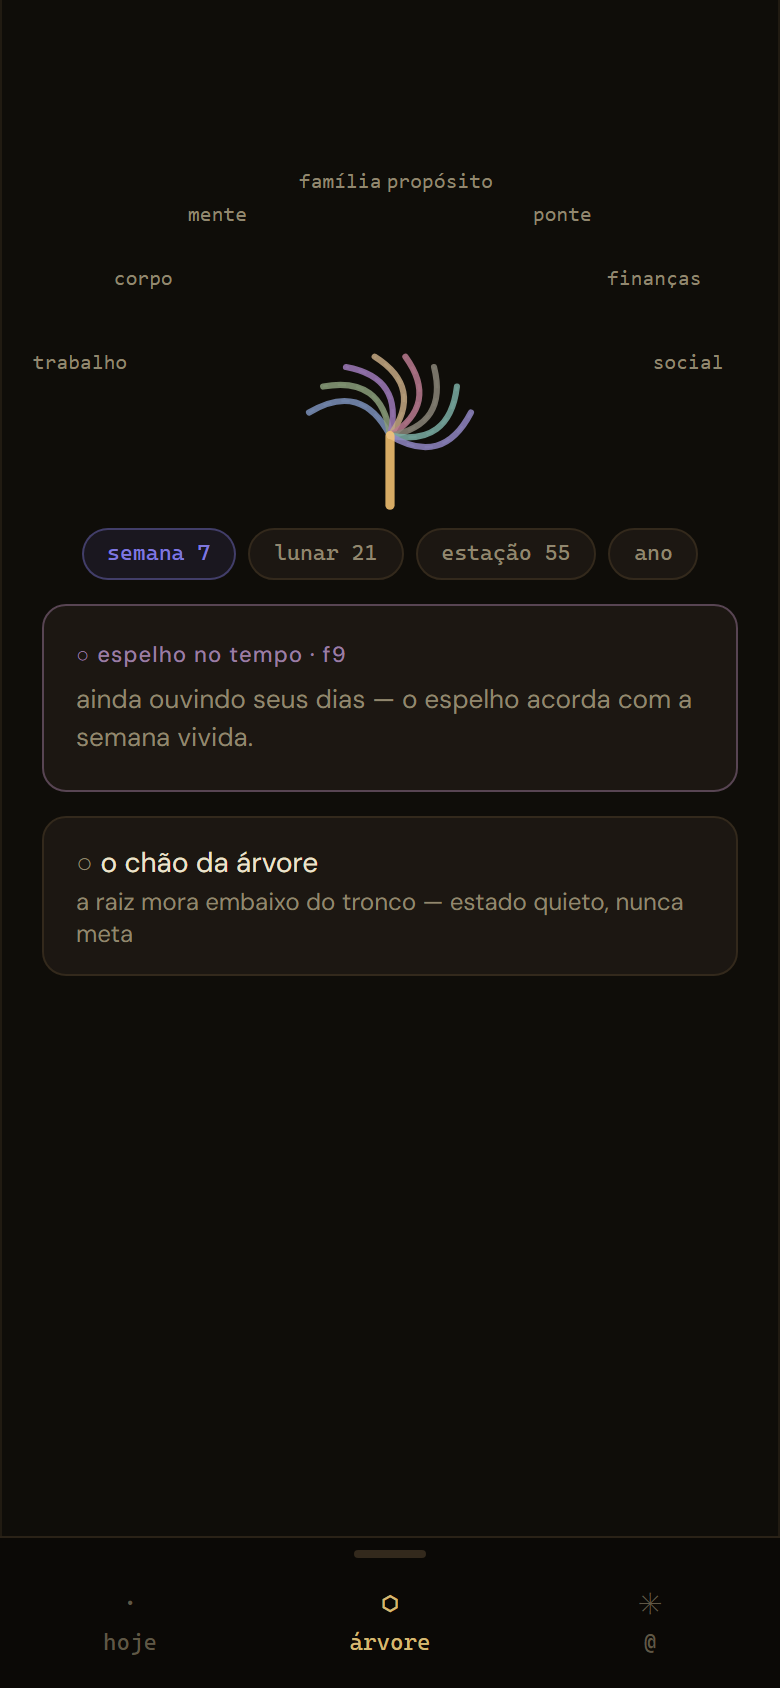
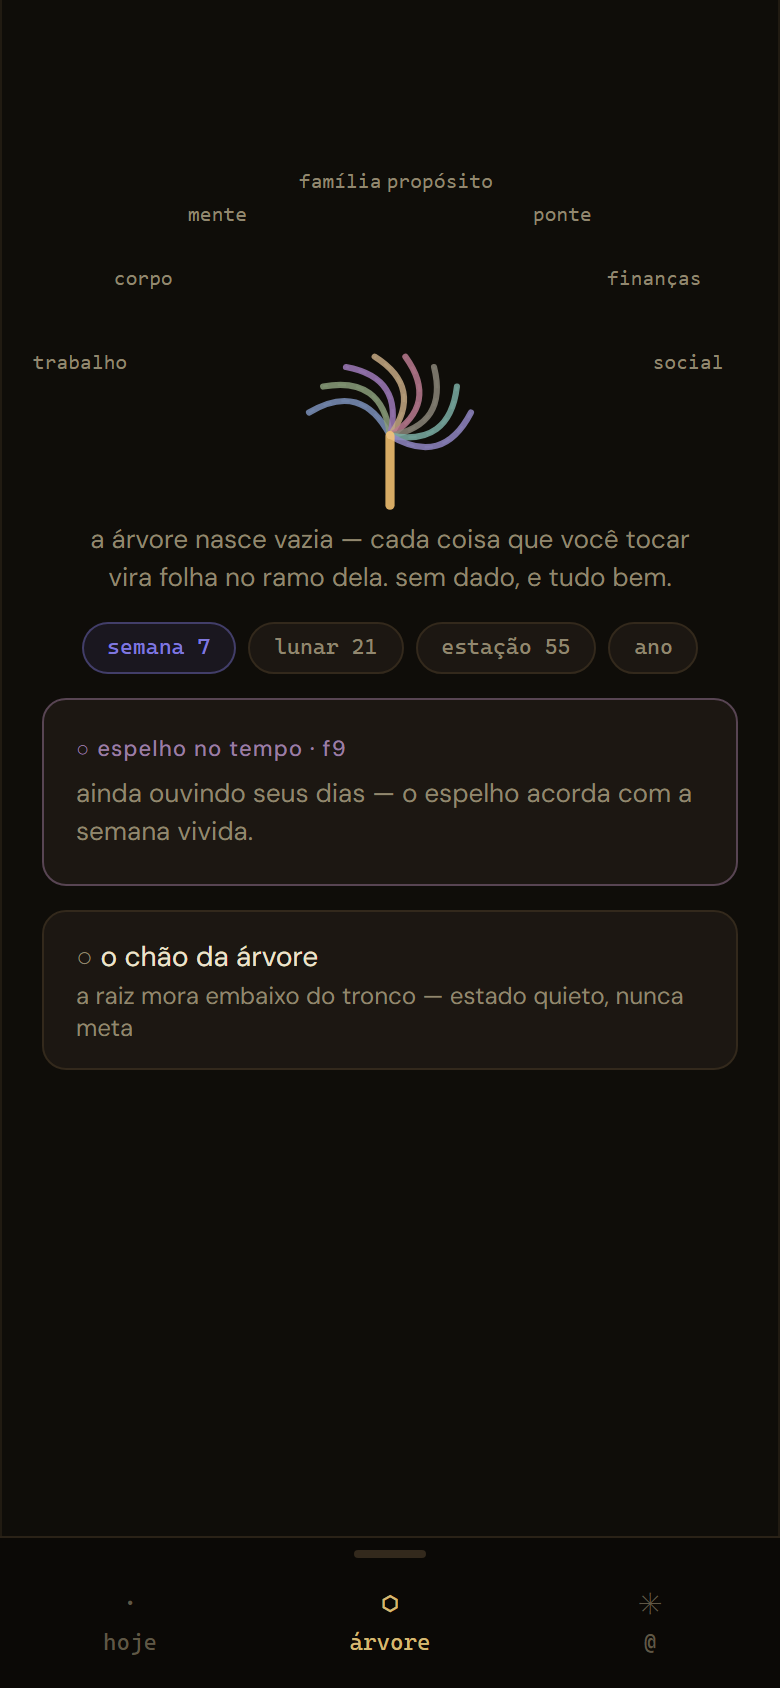
feat(arvore): cold start declarado e confianca por ramo (obra 24b)
«Sem dado, e tudo bem» agora e distinguivel de «caiu»: a arvore vazia
diz por que esta vazia, e o drill declara quando o ideal do ramo se
apoia em pouca folha (rala) ou nenhuma (sem-dado). O degrau e do dado,
nunca do humano — nenhuma confianca julga (D46). Motor puro com 6
testes novos; foto 37 refotografada com intencao (a linha de chao e a
mudanca). Table stake do benchmark 16 (Whoop declara o cinza).

diff --git a/src/engine/tree.ts b/src/engine/tree.ts
@@ -42,9 +42,28 @@ export interface Branch {
   ideal: number;  // 0..1 — presença no baseline, mesma régua
   leaves: Leaf[]; // folhas recentes (mais nova primeiro; teto de 8 pro drill)
   total: number;  // quantas folhas a janela tem de verdade (sem teto — o drill não mente)
+  baseTotal: number;  // folhas na janela do baseline — o chão em que o "ideal" se apoia
+  confidence: BranchConfidence; // quanta folha sustenta a leitura deste ramo
   saturated: boolean; // real folgado acima do baseline → anel (cheio)
   thirsty: boolean;   // real bem abaixo do baseline → pedindo água
 }
+
+/**
+ * Confiança por ramo (benchmark 16, table stake): «sem dado, e tudo bem»
+ * tem que ser distinguível de «caiu» — e de leitura apoiada em quase nada.
+ * O degrau é do dado, não do humano: nenhuma confiança julga (D46).
+ */
+export type BranchConfidence = 'firme' | 'rala' | 'sem-dado';
+
+// menos folha que isto no baseline = o "ideal" ainda é chute educado
+export const CONFIDENCE_FLOOR = 3;
+
+/** O que a face diz de cada degrau — null quando não há nada a dizer. */
+export const CONFIDENCE_LABEL: Record<BranchConfidence, string | null> = {
+  firme: null,
+  rala: 'leitura rala — o ideal deste ramo se apoia em pouca folha ainda',
+  'sem-dado': 'sem folha ainda — e tudo bem: o ramo cresce quando a vida tocar nele',
+};
 
 const LIVE = (i: AtomItem) => i.state !== 'archived' && i.status !== 'archived';
 
@@ -89,16 +108,32 @@ export function treeShape(items: AtomItem[], windowKey: TreeWindow['key'], now: 
       .filter((i) => i.module === m && LIVE(i) && touchOf(i) >= since)
       .sort((a, b) => touchOf(b).localeCompare(touchOf(a)));
     const leaves = inWindow.slice(0, 8).map((item) => ({ item, when: touchOf(item) }));
+    const baseTotal = idealRaw[m];
+    const confidence: BranchConfidence =
+      baseTotal === 0 && inWindow.length === 0 ? 'sem-dado'
+      : baseTotal < CONFIDENCE_FLOOR ? 'rala'
+      : 'firme';
     return {
       module: m,
       real,
       ideal,
       leaves,
       total: inWindow.length,
+      baseTotal,
+      confidence,
       saturated: real > ideal + DELTA,
       thirsty: ideal > 0 && real < ideal - DELTA,
     };
   });
+}
+
+/**
+ * A árvore inteira ainda não viveu? Cold start é ESTADO declarado, nunca
+ * silêncio mudo: 8 tocos idênticos sem uma palavra são indistinguíveis de
+ * «caiu» (benchmark 16: Whoop declara o cinza; quem esconde, assusta).
+ */
+export function isColdStart(branches: Branch[]): boolean {
+  return branches.every((b) => b.total === 0 && b.baseTotal === 0);
 }
 
 // nomes de casa pros ramos (a árvore fala pt)

diff --git a/src/engine/tree.test.ts b/src/engine/tree.test.ts
@@ -1,6 +1,6 @@
 // engine/tree.test.ts — a árvore da vida (face ÁRVORE)
 import { describe, it, expect } from 'vitest';
-import { treeShape, synthesis, presence, TREE_WINDOWS } from './tree';
+import { treeShape, synthesis, presence, isColdStart, CONFIDENCE_FLOOR, TREE_WINDOWS } from './tree';
 import type { AtomItem, AtomModule } from '@/types/item';
 
 const NOW = new Date('2026-07-27T12:00:00Z');
@@ -119,5 +119,44 @@ describe('synthesis — estado, nunca julgamento', () => {
 describe('TREE_WINDOWS', () => {
   it('as 4 janelas φ: 7 · 21 · 55 · 365', () => {
     expect(TREE_WINDOWS.map((w) => w.days)).toEqual([7, 21, 55, 365]);
+  });
+});
+
+describe('cold start e confiança por ramo (benchmark 16)', () => {
+  it('árvore que nunca viveu declara cold start', () => {
+    expect(isColdStart(treeShape([], 'semana', NOW))).toBe(true);
+  });
+
+  it('uma folha só já tira a árvore do cold start', () => {
+    const shape = treeShape([item('work', 2)], 'semana', NOW);
+    expect(isColdStart(shape)).toBe(false);
+  });
+
+  it('ramo sem folha em janela nenhuma → sem-dado', () => {
+    const shape = treeShape([item('work', 2)], 'semana', NOW);
+    expect(shape.find((b) => b.module === 'family')?.confidence).toBe('sem-dado');
+  });
+
+  it('baseline com pouca folha → leitura rala', () => {
+    // 2 toques na estação (< CONFIDENCE_FLOOR): o ideal se apoia em quase nada
+    const shape = treeShape([item('mind', 30), item('mind', 40)], 'semana', NOW);
+    expect(CONFIDENCE_FLOOR).toBeGreaterThan(2);
+    expect(shape.find((b) => b.module === 'mind')?.confidence).toBe('rala');
+  });
+
+  it('baseline no piso ou acima → leitura firme', () => {
+    const shape = treeShape(
+      [item('body', 5), item('body', 20), item('body', 44)],
+      'semana',
+      NOW,
+    );
+    expect(shape.find((b) => b.module === 'body')?.confidence).toBe('firme');
+  });
+
+  it('a confiança é do dado, nunca julga: sem-dado não vira sede nem cheio', () => {
+    const shape = treeShape([item('work', 2)], 'semana', NOW);
+    const family = shape.find((b) => b.module === 'family')!;
+    expect(family.thirsty).toBe(false);
+    expect(family.saturated).toBe(false);
   });
 });

diff --git a/src/pages/Arvore.tsx b/src/pages/Arvore.tsx
@@ -11,7 +11,7 @@ import { useItems } from '@/hooks/useItems';
 import { useNav } from '@/hooks/useNav';
 import { useAppStore } from '@/store/app-store';
 import { eventService } from '@/service/item-service';
-import { treeShape, synthesis, TREE_WINDOWS, BRANCH_LABEL, type Branch, type TreeWindow } from '@/engine/tree';
+import { treeShape, synthesis, isColdStart, CONFIDENCE_LABEL, TREE_WINDOWS, BRANCH_LABEL, type Branch, type TreeWindow } from '@/engine/tree';
 import { mirror } from '@/engine/mirror';
 import { simEvents } from '@/dev/sim-week';
 import type { AtomItem, AtomModule } from '@/types/item';
@@ -134,6 +134,15 @@ export function ArvorePage() {
       {/* a síntese — estado, nunca julgamento; quieta se a árvore está quieta */}
       {line && <p className="text-center text-sm italic text-text-muted -mt-1 mb-3 text-balance">{line}</p>}
 
+      {/* cold start declarado (benchmark 16): «sem dado, e tudo bem» nunca
+          pode parecer «caiu» — a árvore vazia diz por que está vazia */}
+      {isColdStart(branches) && (
+        <p className="text-center text-[13px] italic text-text-muted -mt-1 mb-3 text-balance px-4">
+          a árvore nasce vazia — cada coisa que você tocar vira folha no ramo
+          dela. sem dado, e tudo bem.
+        </p>
+      )}
+
       {/* janelas φ */}
       <div className="flex gap-1.5 justify-center flex-wrap mb-3">
         {TREE_WINDOWS.map((w) => (
@@ -157,6 +166,10 @@ export function ArvorePage() {
           <h4 className="text-[11px] font-semibold tracking-wider text-text-muted mb-1.5">
             {BRANCH_LABEL[drill.module]} · {drill.total > 0 ? `${drill.total} ${drill.total === 1 ? 'folha' : 'folhas'} na janela` : 'sem folha nesta janela'}
           </h4>
+          {/* confiança por ramo: o dado ralo se declara (benchmark 16) */}
+          {CONFIDENCE_LABEL[drill.confidence] && (
+            <p className="text-[11px] italic text-text-faint mb-1.5">{CONFIDENCE_LABEL[drill.confidence]}</p>
+          )}
           {drill.leaves.map(({ item, when }) => (
             <button
               key={item.id}
